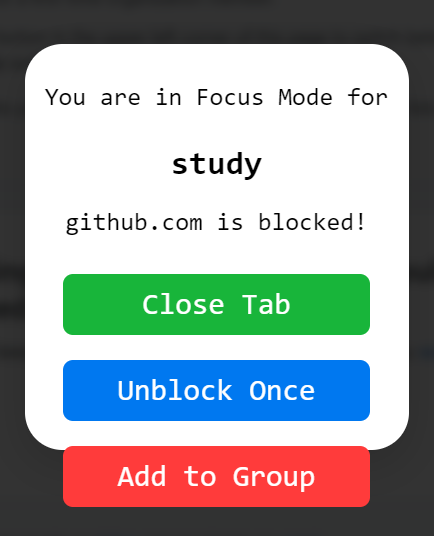
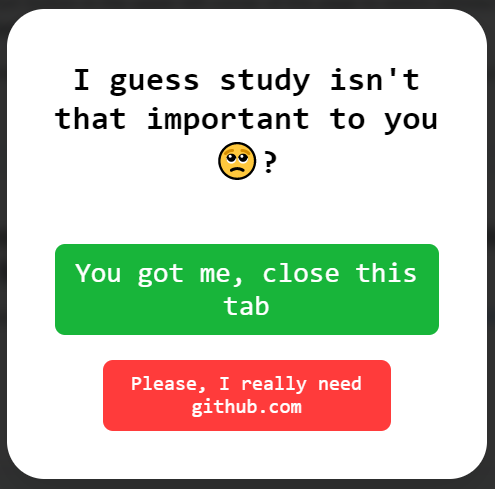
update with new screen shots

diff --git a/index.md b/index.md
@@ -23,13 +23,13 @@ layout: default
 
 <br/><br/>
 
-# Potato Tabs -- Your Best Choice
+# Flow -- Your Best Choice
 
 - This extension is essentially a merge between focus mode and tab grouping extensions, allowing users to divide extensions into groups and activate focus mode within that group. Essentially, all tabs outside of that group become blocked and unavailable to use for a certain amount of time, and only the tabs within the active group will be available to the user, preventing distractions in the process and, as a result, potential increase in productivity.
 
 <!-- ![background](/assets/background.PNG){:height="300px" width="4000px"} -->
 
-<br/><br/><br/><br/><br/><br/><br/><br/><br/><br/><br/><br/><br/><br/><br/><br/>
+<br/><br/><br/><br/><br/><br/>
 
 ---
 
@@ -44,9 +44,9 @@ layout: default
 5.  Type in `chrome://extension` on search bar of your chrome.
 6.  Toggle on Developer Mode by clicking the toggle switch on the top right corner of the page. (You should be able to see an extra white bar show up right below the blue bar)
 7.  Click on the `Load Unpacked` button and select the `../Team-Potato/build` folder of the file.
-8.  Potato Tab is ready to go!
+8.  Flow is ready to go!
     <!-- ![background](/assets/background.PNG){:height="250px" width="4000px"} -->
-    <br/><br/><br/><br/><br/><br/><br/><br/><br/><br/><br/><br/><br/><br/>
+    <br/><br/><br/><br/><br/><br/>
 
 ---
 
@@ -54,14 +54,14 @@ layout: default
 
 # Get Started with Our Extension
 
-- Click on the icon of our lovely potato
+- Click on the icon of our logo
 
-- Open Potato Tab
+- Open Flow
 
 - Be ready for a whole new experience
 
-![open potato tabs](/assets/tab1.PNG){:height="250px" width="275px"}
-![active tabs](/assets/tab2 active tabs.PNG){:height="250px" width="250px"}
+![open potato tabs](/assets/tab1.PNG){:height="300px" width="200px"}
+![active tabs](/assets/tab2.PNG){:height="300px" width="450px"}
 
 <!-- ![background](/assets/background.PNG){:height="100px" width="4000px"} -->
 
@@ -73,7 +73,7 @@ layout: default
 
 # Organize Your Tabs into Groups
 
-- Click the `+` icon at the bottom right
+- Click the `+` icon
 
 - Type in the best group name you can think of
 
@@ -81,7 +81,7 @@ layout: default
 
 - Or…. (to be continue)
 
-![create group](/assets/tab4 create group.PNG){:height="350px" width="450px"}
+![create group](/assets/tab4.PNG){:height="350px" width="450px"}
 
 <!-- ![background](/assets/background.PNG){:height="100px" width="4000px"} -->
 
@@ -95,9 +95,9 @@ layout: default
 
 - What if you want to add new tabs into a group?
 
-- We got you covered with easy to use drag and drop function!
+- We got you covered with easy-to-use drag-and-drop function!
 
-![drag & drop](/assets/grouped tabs 2.PNG){:height="350px" width="400px"}
+![drag & drop](/assets/grouped tabs.PNG){:height="400px" width="630px"}
 
 <!-- ![background](/assets/background.PNG){:height="100px" width="4000px"} -->
 
@@ -114,8 +114,8 @@ layout: default
 - Set the timer and click `start focus`
 - Now you can concentrate on your job, awesome!
 
-![focus1](/assets/small window.PNG){:height="270px" width="270px"}
-![focus2](/assets/focus mode.PNG){:height="270px" width="270px"}
+![focus1](/assets/small window.PNG){:height="450px" width="270px"}
+![focus2](/assets/focus mode.PNG){:height="450px" width="270px"}
 
 <br/><br/><br/><br/><br/><br/>
 
@@ -126,13 +126,13 @@ layout: default
 # Trying to Open New Tabs?
 
 - Different websites, different choices.
-- When you open up a new tab, a prompt will give three choices
+- When you open up a new tab, a prompt will give two choices
 
-1.  `Close Tab` - this will close the new tab immediately and thus prevent distraction. Close YouTube now!
-2.  `Unblock Once` - this will allow the tab to open for this time, but prompt will show up again if the website is opened again in the future. Maybe just a short video?
-3.  `Add to Group` - this will allow you to use the website and add it to your group. We need Github to study!
+1.  `Close Tab` - this will close the new tab immediately and thus prevent distraction. Close YouTube now and go back to study!
 
-![focus3](/assets/focus youtube.PNG){:height="270px" width="270px"}
+2.  `Add to Group` - this will allow you to use the website and add it to your group. Please, I need Github to study!
+
+![focus3](/assets/focus youtube.PNG){:height="270px" width="300px"}
 ![focus4](/assets/focus github.PNG){:height="270px" width="270px"}
 
 <br/><br/><br/><br/><br/><br/>
@@ -144,15 +144,15 @@ layout: default
 # After Focus
 
 - You can see `GitHub` is now in the `study` group.
-- If you want to recover the tab that was closed by starting focus mode, follow the instruction below.
+- If you want to recover the tab that was closed when starting focus mode, follow the instructions below.
 
-1.  Navigate to the potato tab menu page.
+1.  Navigate to the Flow menu page.
 2.  Find the `Saved Tabs` on the bottom left of the menu.
 3.  Choose the site you want to recover by clicking on them or simply recover all of them by using `Open All` button
 4.  Or, you can click on `Delete All` if you don't want them any more.
 
-![saved tabs](/assets/saced tabs.PNG){:height="270px" width="170px"}
-![new study group](/assets/study group with github.PNG){:height="270px" width="370px"}
+![saved tabs](/assets/saved tabs.PNG){:height="250px" width="155px"}
+![new study group](/assets/study group with github.PNG){:height="270px" width="530px"}
 
 <br/><br/><br/><br/><br/><br/>
 
